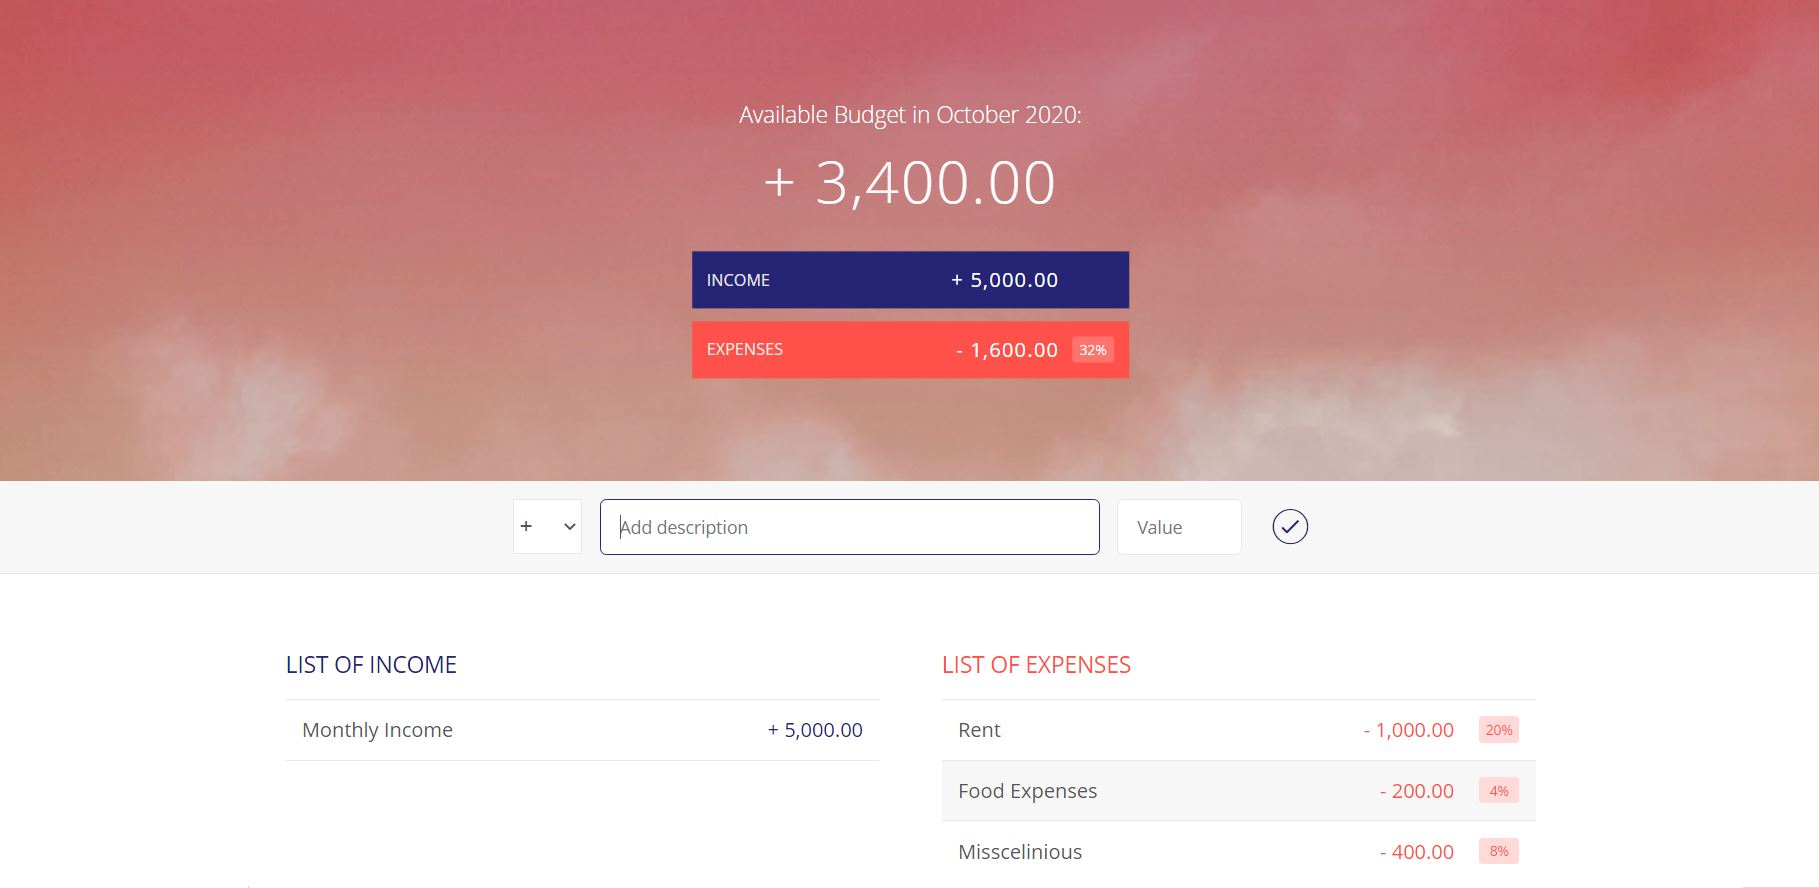
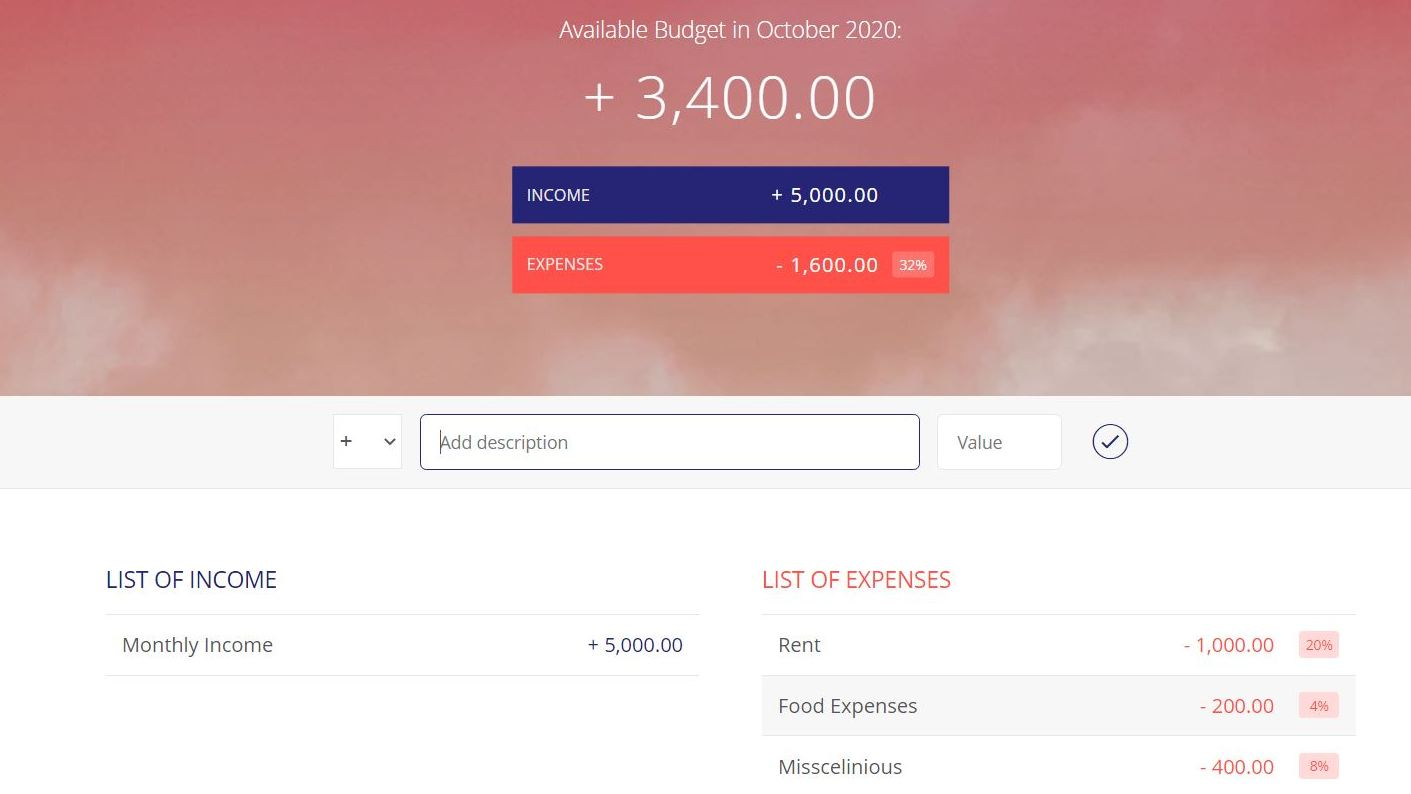
new changes at income table

diff --git a/starter/index.html b/starter/index.html
@@ -42,10 +42,9 @@
     <div class="bottom">
         <div class="add">
             <div class="add__container">
-                <select class="add__type">
-                    <option value-="place">Select your Action</option>
-                    <option value="inc" selected>+</option>
-                    <option value="exp">-</option>
+                <select id="add__type">
+                    <option value="inc" > + </option>
+                    <option value="exp"> - </option>
                 </select>
                 <input id="description" type="text" class="add__description" placeholder="Add description">
                 <input id="value" type="number" class="add__value" placeholder="Value">
@@ -58,31 +57,8 @@
                 <h2 class="icome__title">List of Income</h2>
 
                 <div class="income__list">
-                    
-
-                    <!--
-                        <div class="item clearfix" id="income-0">
-                            <div class="item__description">Salary</div>
-                            <div class="right clearfix">
-                                <div class="item__value">+ 2,100.00</div>
-                                <div class="item__delete">
-                                    <button class="item__delete--btn">
-                                        <i class="ion-ios-close-outline"></i>
-                                    </button>
-                                </div>
-                            </div>
-                        </div>
-                        
-                        <div class="item clearfix" id="income-1">
-                            <div class="item__description">Sold car</div>
-                            <div class="right clearfix">
-                                <div class="item__value">+ 1,500.00</div>
-                                <div class="item__delete">
-                                    <button class="item__delete--btn"><i class="ion-ios-close-outline"></i></button>
-                                </div>
-                            </div>
-                        </div>
-                        -->
+                    <table id="income__table">
+                    </table>
 
                 </div>
             </div>
@@ -93,29 +69,8 @@
                 <h2 class="expenses__title">List of Expenses</h2>
 
                 <div class="expenses__list">
-
-                    <!--
-                        <div class="item clearfix" id="expense-0">
-                            <div class="item__description">Apartment rent</div>
-                            <div class="right clearfix">
-                                <div class="item__value">- 900.00</div>
-                                <div class="item__percentage">21%</div>
-                                <div class="item__delete">
-                                    <button class="item__delete--btn"><i class="ion-ios-close-outline"></i></button>
-                                </div>
-                            </div>
-                        </div>
-                        <div class="item clearfix" id="expense-1">
-                            <div class="item__description">Grocery shopping</div>
-                            <div class="right clearfix">
-                                <div class="item__value">- 435.28</div>
-                                <div class="item__percentage">10%</div>
-                                <div class="item__delete">
-                                    <button class="item__delete--btn"><i class="ion-ios-close-outline"></i></button>
-                                </div>
-                            </div>
-                        </div>
-                        -->
+                    <table id="expense__table">
+                    </table>
 
                 </div>
             </div>
@@ -124,7 +79,7 @@
 
     </div>
     <!-- <script src="controllers/yourController.js"></script> -->
-    <script src="app.js"></script>
+    <script src="index.js"></script>
 </body>
 
 </html>

diff --git a/starter/index.js b/starter/index.js
@@ -1,0 +1,42 @@
+//fetching from HTML
+var incomeTable=document.getElementById('income__table');//income table
+var descriptionInput=document.getElementById('description');
+var numberInput=document.getElementById('value');
+var addButton=document.getElementById('add__btn');
+var selectInput=document.getElementById('add__type').value;
+var expenseTable=document.getElementById('expenses__table');//expenses table
+var budgetIncome=document.getElementsByClassName('budget__income--value');
+//creating funtions
+function creatingTable(){
+    console.log("Creating Table Function Started");
+
+    console.log("the function is here before if")
+    var htmlContent=`<tr><td>${descriptionInput.value}</td><td>${numberInput.value}</td><td><button class="delete-button"><i class="ion-ios-close-outline"></i></button></td></tr>`;
+    // if(selectInput==='inc'){
+    //     console.log("if inc is entered");
+        incomeTable.insertAdjacentHTML('beforeend',htmlContent);
+    // } else if(selectInput==='exp'){
+    //     //addToExpense(); //add to expense table
+            //console.log("if exp is entered")
+         //expenseTable.insertAdjacentElement('beforeend',htmlContent);
+    if(selectInput=='inc'){
+        var check='inc';
+    }
+    else {
+        check='exp';
+    }
+    console.log(check);
+    
+    console.log("the function is here after if")
+    function addToBudget(){
+        
+        budgetIncome.innerHTML=numberInput;
+    }
+    addToBudget();
+    descriptionInput.value='';
+    numberInput.value='';
+
+}
+
+//create event handler
+addButton.addEventListener('click',creatingTable);

diff --git a/starter/style.css b/starter/style.css
@@ -273,6 +273,19 @@ h2 {
     color: #FF5049;
 
 }
+table {
+    font-family: arial, sans-serif;
+    border-collapse: collapse;
+    width: 100%;
+  }
+#income__table,td{
+    border: 1px solid #dddddd;
+    text-align: left;
+    padding: 8px;
+}
+tr:nth-child(even) {
+    background-color: #dddddd;
+  }
 
 .unpaid .item__percentage { box-shadow: 0 2px 6px 0 rgba(0, 0, 0, 0.1); }
 .unpaid:hover .item__description { font-weight: 900; }

diff --git a/starter/app.js b/starter/app.js
@@ -294,7 +294,7 @@ var budgetController = (function(){
     };
   
   })();
-  
+
   
   //GLOBAL APP CONTROLLER
   var controller = (function(budgetCtrl,UICtrl){
